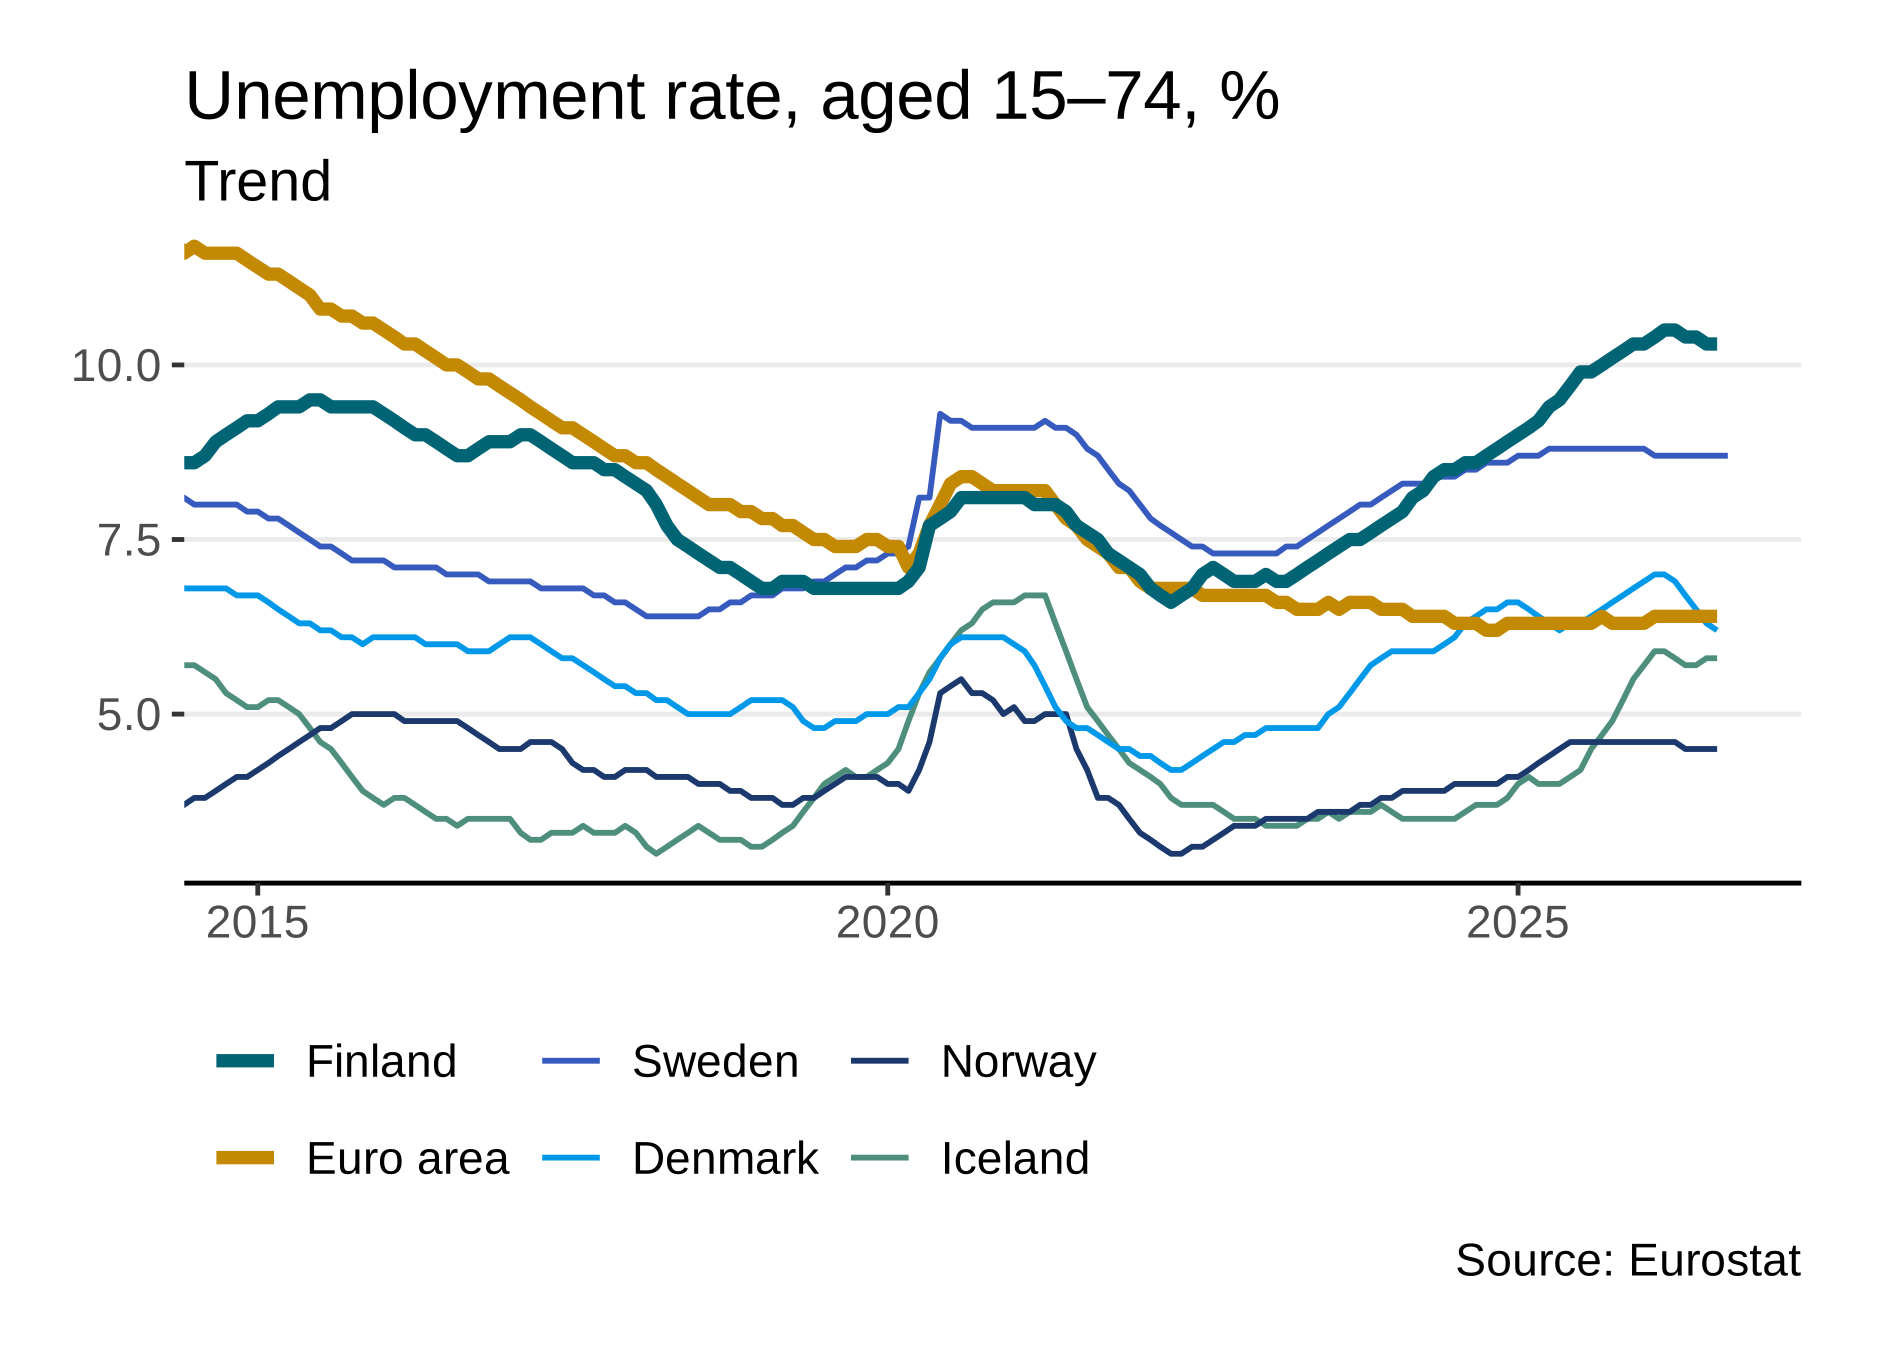
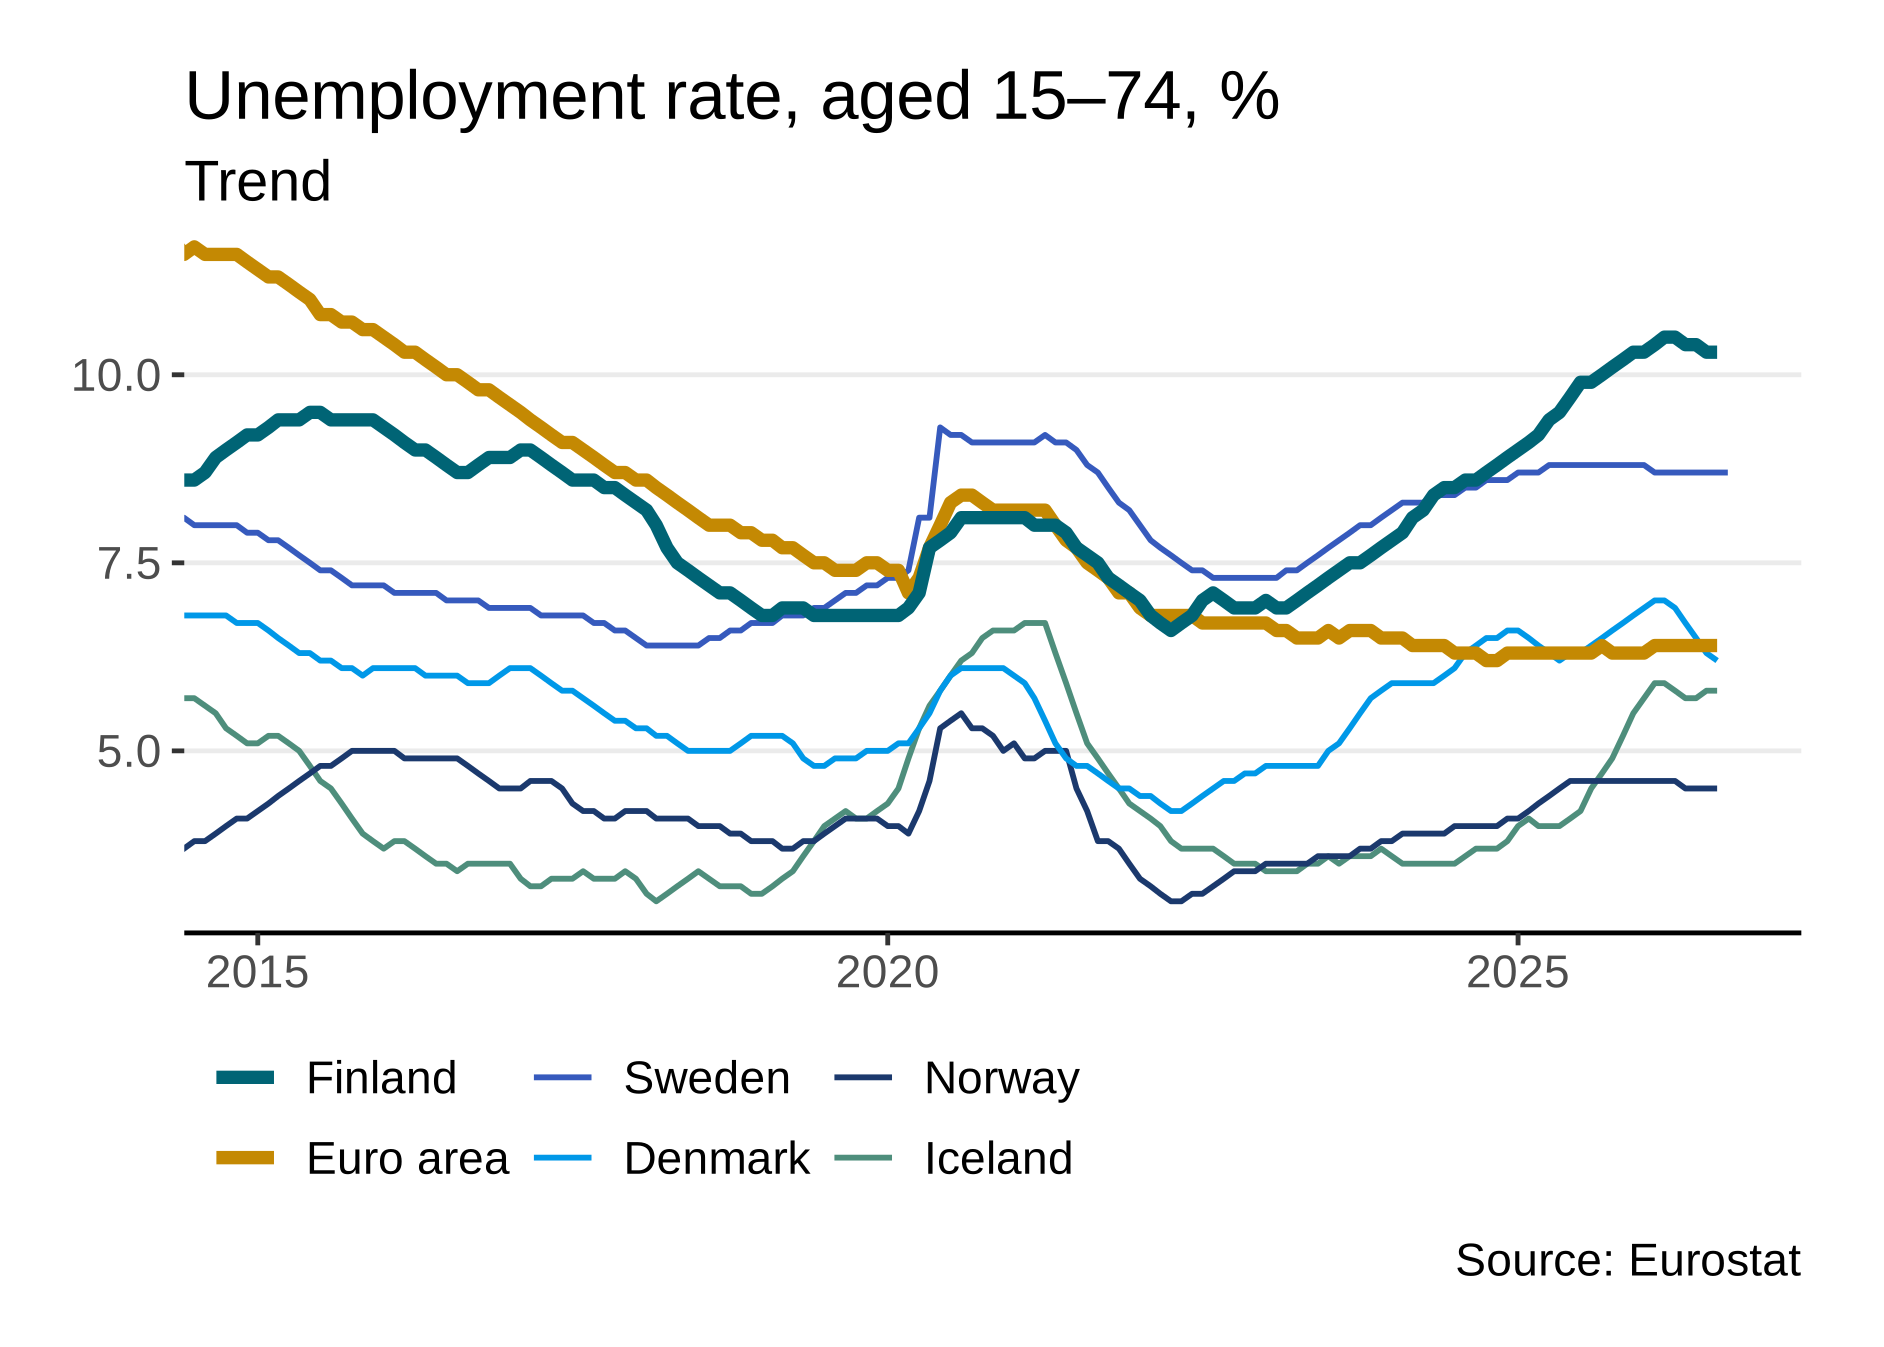
Tiiviimpi alareunan selite esityksiin ja työvoimakuvion trendiversio
visu_restyle(): alareunan selitteen väli x-akseliin on kolmanneksen
pienempi (box.spacing 8 pt ja yläreunus 2 pt, teemassa 12 ja 6 pt), ja
sarjojen välit ovat 4 pt vaakaan ja 2 pt pystyyn. Sivuston kuviot eivät
muutu.

Uusi esityskuvio: työikäiset, työvoima ja työlliset Tilastokeskuksen
trendisarjoista englanniksi, selite alareunassa kahdella rivillä.

Claude-Session: https://claude.ai/code/session_012ftLSFWSVJtSiLFrthZi8q

diff --git a/.claude/skills/esitys/SKILL.md b/.claude/skills/esitys/SKILL.md
@@ -76,8 +76,12 @@ päivittyy itsestään.
   kaikkien kuvioiden data haetaan rajapinnasta. Saman sivun seuraavat kuviot
   ovat ilmaisia samassa ajossa, joten `kokoa.py` renderöi kaikki kuviot
   yhdellä R-ajolla.
-- **Selite** menee automaattisesti alas kun sarjoja on enintään neljä, muuten
-  oikeaan reunaan. Alareunassa monen sarjan selite veisi liikaa korkeutta.
+- **Selite** menee automaattisesti alas, jos sen rivi mahtuu kuvion
+  leveyteen, muuten oikeaan reunaan. Pitkät nimet vievät oikeassa reunassa
+  helposti puolet piirtoalasta; silloin `legend = "bottom"` ja
+  `guides(colour = guide_legend(nrow = 2))` ladovat ne alas kahdelle
+  riville. Alareunan selite on esityksessä tiiviimpi kuin sivustolla: väli
+  x-akseliin on kolmanneksen pienempi ja sarjojen välit kapeammat.
 - **Ulkoasu on ggcustomin VM-teema** (`theme_vm()`), kuten sivustolla, mutta
   tekstit ovat 1.15-kertaisia ja viivat VM-määrittelyn paksuisia (1.5).
   Sivustolla viiva on ohuempi (0.8), eikä sitä muuteta. `visu_chart_png()`
